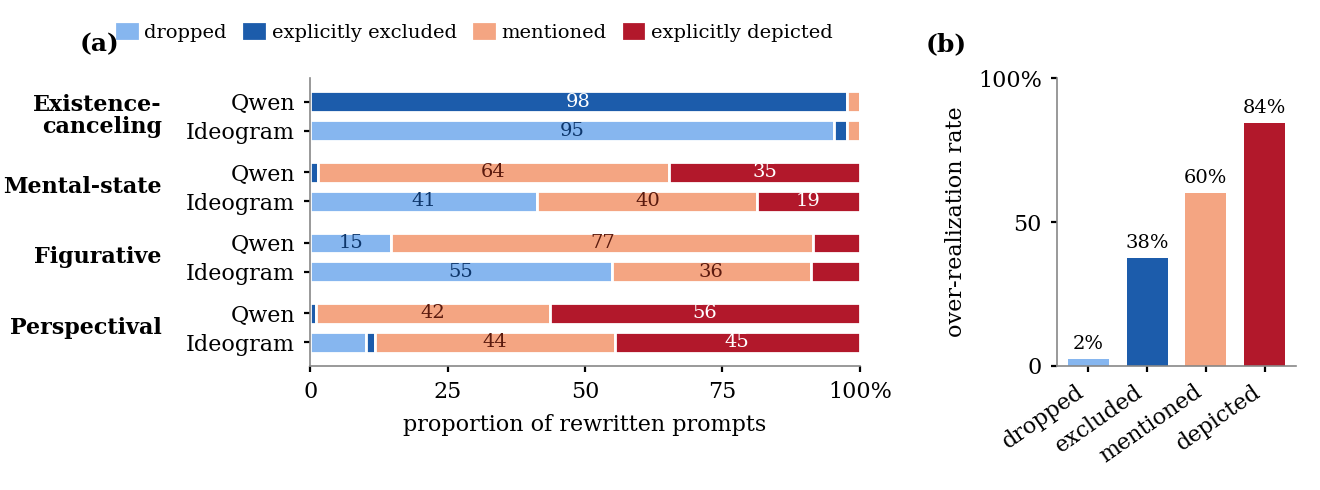
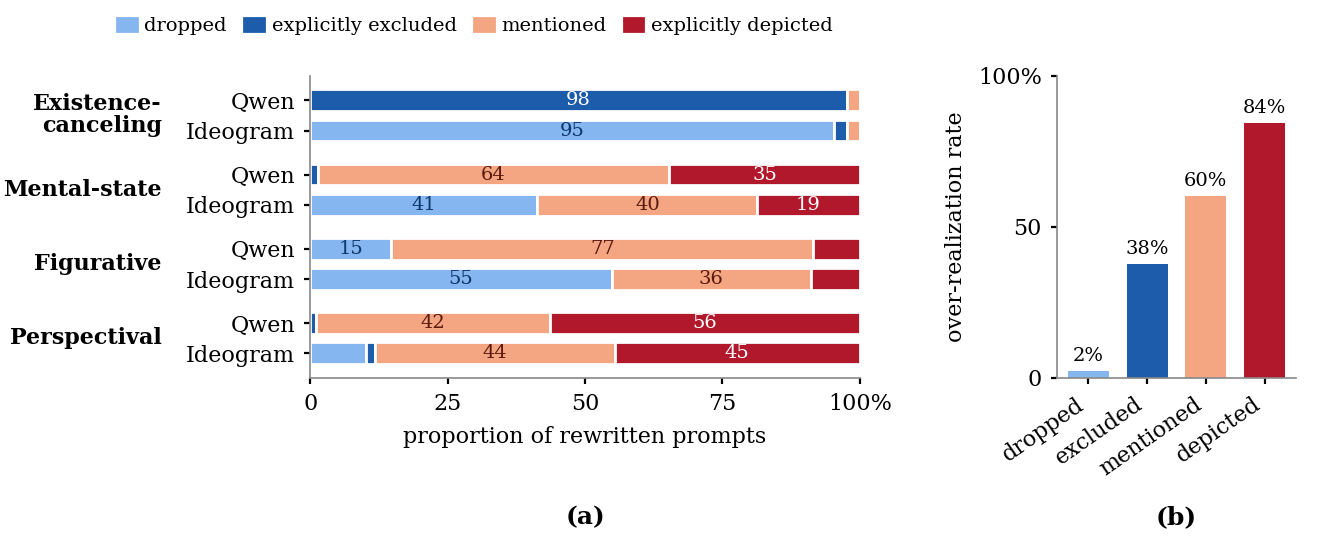
Rewrite-treatment figure: panel tags under the axes

diff --git a/research/overreal/scripts/autoannot/plot_rewrite_treatment.py b/research/overreal/scripts/autoannot/plot_rewrite_treatment.py
@@ -57,7 +57,7 @@ def main():
     orate = [o[k][0] / o[k][1] for k in (1, 2, 3, 4)]
 
     plt.rcParams.update({"font.size": 8, "font.family": "serif", "axes.edgecolor": "#888", "axes.linewidth": 0.6})
-    fig, (ax, ax2) = plt.subplots(1, 2, figsize=(6.6, 2.45), gridspec_kw={"width_ratios": [2.3, 1]})
+    fig, (ax, ax2) = plt.subplots(1, 2, figsize=(6.6, 2.7), gridspec_kw={"width_ratios": [2.3, 1]})
     labels, ys, y = [], [], 0
     for fam, fn in FAM:
         y0 = y
@@ -86,7 +86,6 @@ def main():
     ax.legend(handles=[plt.Rectangle((0, 0), 1, 1, color=c) for c in COL], labels=CAT, loc="upper center",
               bbox_to_anchor=(0.3, 1.25), ncol=4, frameon=False, fontsize=7, handlelength=1,
               columnspacing=0.9, handletextpad=0.4)
-    ax.text(-0.42, 1.16, "(a)", transform=ax.transAxes, fontsize=9, fontweight="bold", va="top")
     for k, r in enumerate(orate):
         ax2.bar(k, r, color=COL[k], width=0.7)
         ax2.text(k, r + 0.02, f"{100*r:.0f}%", ha="center", va="bottom", fontsize=7)
@@ -98,9 +97,11 @@ def main():
     ax2.set_ylabel("over-realization rate", labelpad=4)
     ax2.spines[["top", "right"]].set_visible(False)
     ax2.tick_params(length=2)
-    ax2.text(-0.55, 1.16, "(b)", transform=ax2.transAxes, fontsize=9, fontweight="bold", va="top")
     fig.tight_layout()
-    fig.subplots_adjust(top=0.84, wspace=0.5, left=0.235)
+    fig.subplots_adjust(top=0.86, bottom=0.3, wspace=0.5, left=0.235)
+    for a, tag in ((ax, "(a)"), (ax2, "(b)")):
+        bb = a.get_position()
+        fig.text((bb.x0 + bb.x1) / 2, 0.02, tag, ha="center", va="bottom", fontsize=9, fontweight="bold")
     fig.savefig(ROOT / "Chekhov_paper_ICLR" / "figures" / "rewrite_treatment.pdf")
     fig.savefig(Path(__file__).with_name("rewrite_treatment.png"), dpi=200)
     print("saved; over-realization by treatment:", [round(x, 3) for x in orate])
